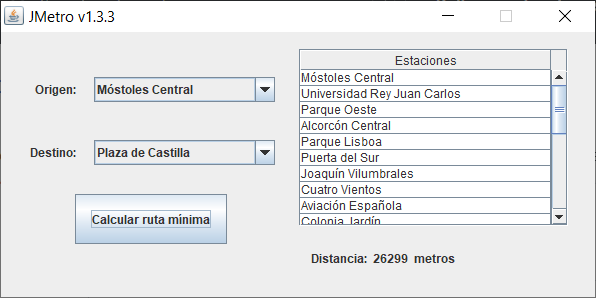
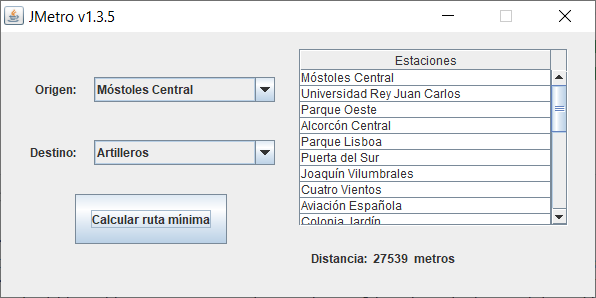
Add version 1.3.5

diff --git a/src/main/java/com/aebd/jMetro/gui/JMetro.java b/src/main/java/com/aebd/jMetro/gui/JMetro.java
@@ -53,7 +53,7 @@ public class JMetro extends JFrame {
 	 * Create the frame.
 	 */
 	public JMetro() {
-		super("JMetro v1.3.4");
+		super("JMetro v1.3.5");
 		this.setResizable(false);
 		setDefaultCloseOperation(JFrame.EXIT_ON_CLOSE);
 		setBounds(100, 100, 600, 300);
